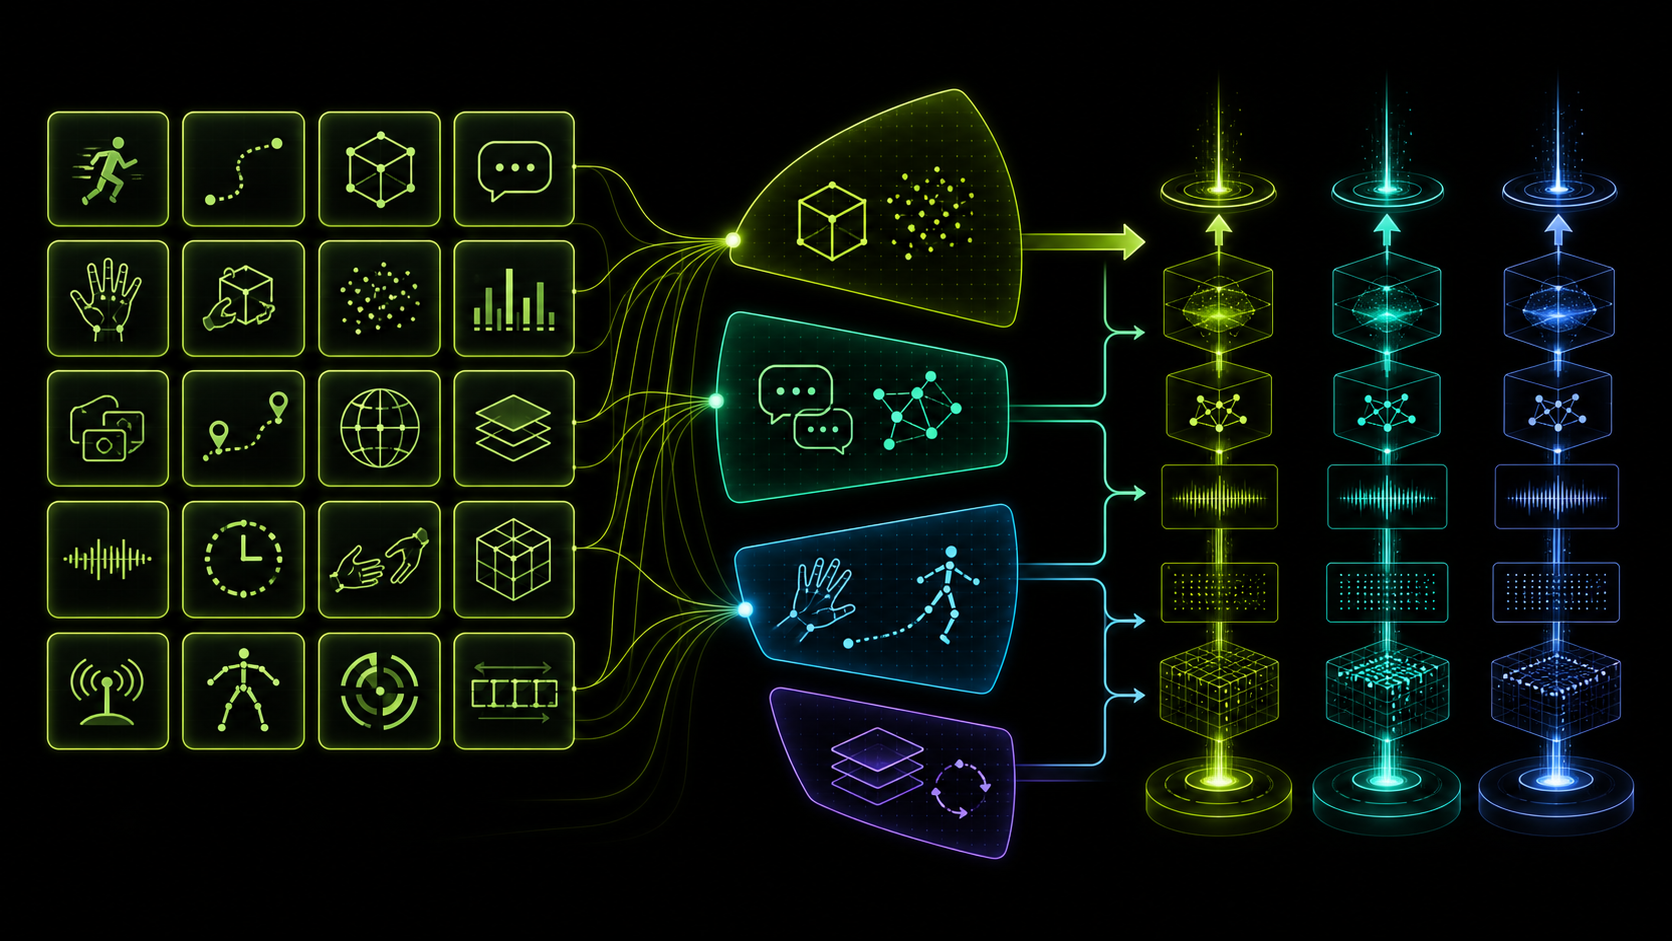
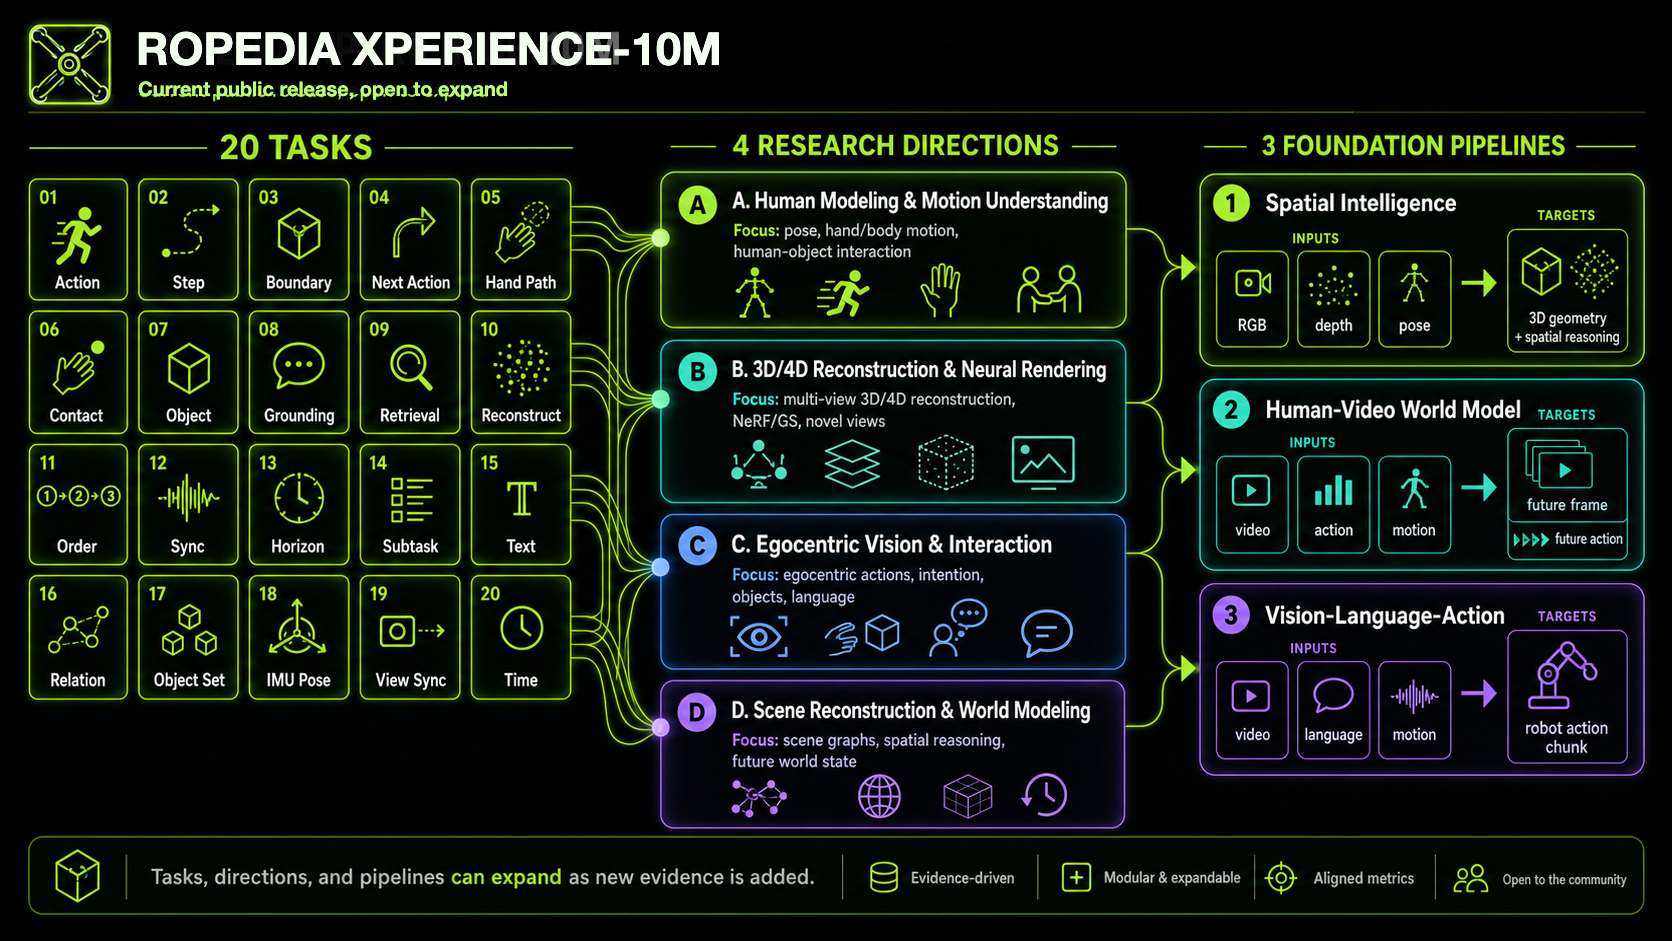
Clarify task direction pipeline figure

Changed region(s): [[0.0, 0.0, 0.9952, 0.9554], [0.8708, 0.9245, 0.9952, 0.9554], [0.0311, 0.8937, 0.0622, 0.9554]]

diff --git a/docs/index.html b/docs/index.html
@@ -6761,7 +6761,7 @@
             </article>
           </div>
           <figure class="task-axis-visual">
-            <img src="assets/charts/task_direction_pipeline_relationship.png?v=relationship-map-v1" alt="Text-free visual relationship map: twenty task nodes flow into four research grouping sectors, then into three foundation-model training pipelines.">
+            <img src="assets/charts/task_direction_pipeline_relationship.png?v=relationship-map-v2-chatgpt" alt="Labeled relationship map showing 20 task contracts flowing into four named research directions and three foundation-model training pipelines, with the current structure marked as expandable.">
             <figcaption aria-label="Relationship map legend">
               <span><strong>20 tasks</strong>Score axes used by every method row.</span>
               <span><strong>4 directions</strong>Research questions for reading those scores.</span>

diff --git a/docs/assets/charts/task_direction_pipeline_relationship.prompt.md b/docs/assets/charts/task_direction_pipeline_relationship.prompt.md
@@ -1,42 +1,72 @@
 # Task-Direction-Pipeline Relationship Map
 
-Generated with ChatGPT image for the public website relationship block.
+Generated as a public infographic asset for the website relationship block.
 
 ## Public Asset
 
 - `docs/assets/charts/task_direction_pipeline_relationship.png`
 
-## Prompt
+## Generation Prompt
 
-Use case: infographic diagram for a research project website. Create a polished
-16:9 dark Ropedia-style relationship-map image with deep black background,
-neon lime and cyan accents, high contrast, no text, no letters, no numerals, no
-logos, no watermarks.
+Use case: infographic-diagram.
 
-Composition must be mathematically clear:
+Asset type: high-resolution website figure for Ropedia Xperience-10M.
 
-- Left: exactly 20 square task tiles, arranged as a clean 4 columns by 5 rows
-  grid. No extra task tiles, no partial tiles, no hidden tiles. Each tile
-  contains a simple abstract icon for embodied AI tasks such as action, hand
-  motion, object, language, retrieval, reconstruction, temporal order, sync,
-  forecast, IMU, camera view, transition.
-- Center: exactly 4 large translucent grouped sectors or rounded panels,
-  stacked vertically or fanned slightly, representing four research directions.
-  Use four visually distinct but harmonious neon accents. No labels.
-- Right: exactly 3 vertical foundation-pipeline columns, equally spaced, each
-  built from stacked model/data blocks with upward light beams, representing
-  three training pipelines. No extra columns.
-- Connect the 20 task grid to the 4 center groups with thin luminous lines,
-  then connect the 4 groups to the 3 right pipeline columns with clean arrows.
+Primary request: generate a polished, readable, dark neon Ropedia-style
+infographic that clearly explains the current expandable structure:
+20 task contracts -> 4 research directions -> 3 foundation training pipelines.
 
-The visual should be easy to understand at webpage size, modern, elegant,
-scientific, and consistent with a black/neon-lime Ropedia website. Avoid tiny
-decorative clutter. Ensure the exact structure 20 -> 4 -> 3 is visually obvious
-without relying on text.
+Critical text accuracy and layout:
+
+- Make the numbers 20, 4, and 3 unmistakable. Use large section headings:
+  `20 TASKS`, `4 RESEARCH DIRECTIONS`, `3 FOUNDATION PIPELINES`.
+- Add the subtitle: `Current public release, open to expand`.
+- Left side: exactly twenty task tiles in a 5 x 4 grid. Use large numbers
+  `01` through `20` plus simple icons. Keep task labels short and readable:
+  Action, Step, Boundary, Next Action, Hand Path, Contact, Object, Grounding,
+  Retrieval, Reconstruct, Order, Sync, Horizon, Subtask, Text, Relation,
+  Object Set, IMU Pose, View Sync, Time.
+- Middle: exactly four large direction panels labeled A, B, C, D. Use these
+  direction names:
+  - A. Human Modeling & Motion Understanding
+  - B. 3D/4D Reconstruction & Neural Rendering
+  - C. Egocentric Vision & Interaction
+  - D. Scene Reconstruction & World Modeling
+- Under each direction, include one concise focus line:
+  - A: pose, hand/body motion, human-object interaction
+  - B: multi-view 3D/4D reconstruction, NeRF/GS, novel views
+  - C: egocentric actions, intention, objects, language
+  - D: scene graphs, spatial reasoning, future world state
+- Right side: exactly three foundation pipeline cards:
+  - 1 Spatial Intelligence
+  - 2 Human-Video World Model
+  - 3 Vision-Language-Action
+- Each pipeline card shows inputs -> targets:
+  - Spatial Intelligence: RGB + depth + pose -> 3D geometry + spatial reasoning
+  - Human-Video World Model: video + action + motion -> future frame + future action
+  - Vision-Language-Action: video + language + motion -> robot action chunk
+- Draw clean arrows from the 20-task grid into the 4 direction panels, then
+  arrows into the 3 pipeline cards.
+- Add a footer line: `Tasks, directions, and pipelines can expand as new evidence is added.`
+
+Visual style:
+
+- Deep black background, neon lime as primary, cyan/blue/violet accents,
+  consistent with the Ropedia visual style.
+- Clean scientific dashboard infographic, high contrast, sharp typography,
+  generous spacing.
+- No photorealistic presenter, no white page background, no watermark.
+- Avoid tiny decorative clutter; prioritize readability at website size.
+
+## Post-Processing
+
+The generated image output was used as the visual base. The top title band was
+locally corrected with an exact text overlay to avoid generated-text spelling
+drift while preserving the generated diagram content.
 
 ## Verification
 
-The committed asset was visually checked in Playwright screenshots at desktop
-and mobile sizes. The page also includes an HTML key that lists the exact 20
-task names, four canonical research directions, and three foundation-pipeline
-tracks, so reader-facing counts do not depend only on the image.
+The committed asset was visually checked after post-processing. The page also
+includes an HTML key that lists the exact 20 task names, four canonical research
+directions, and three foundation-pipeline tracks, so reader-facing counts do
+not depend only on the image.
